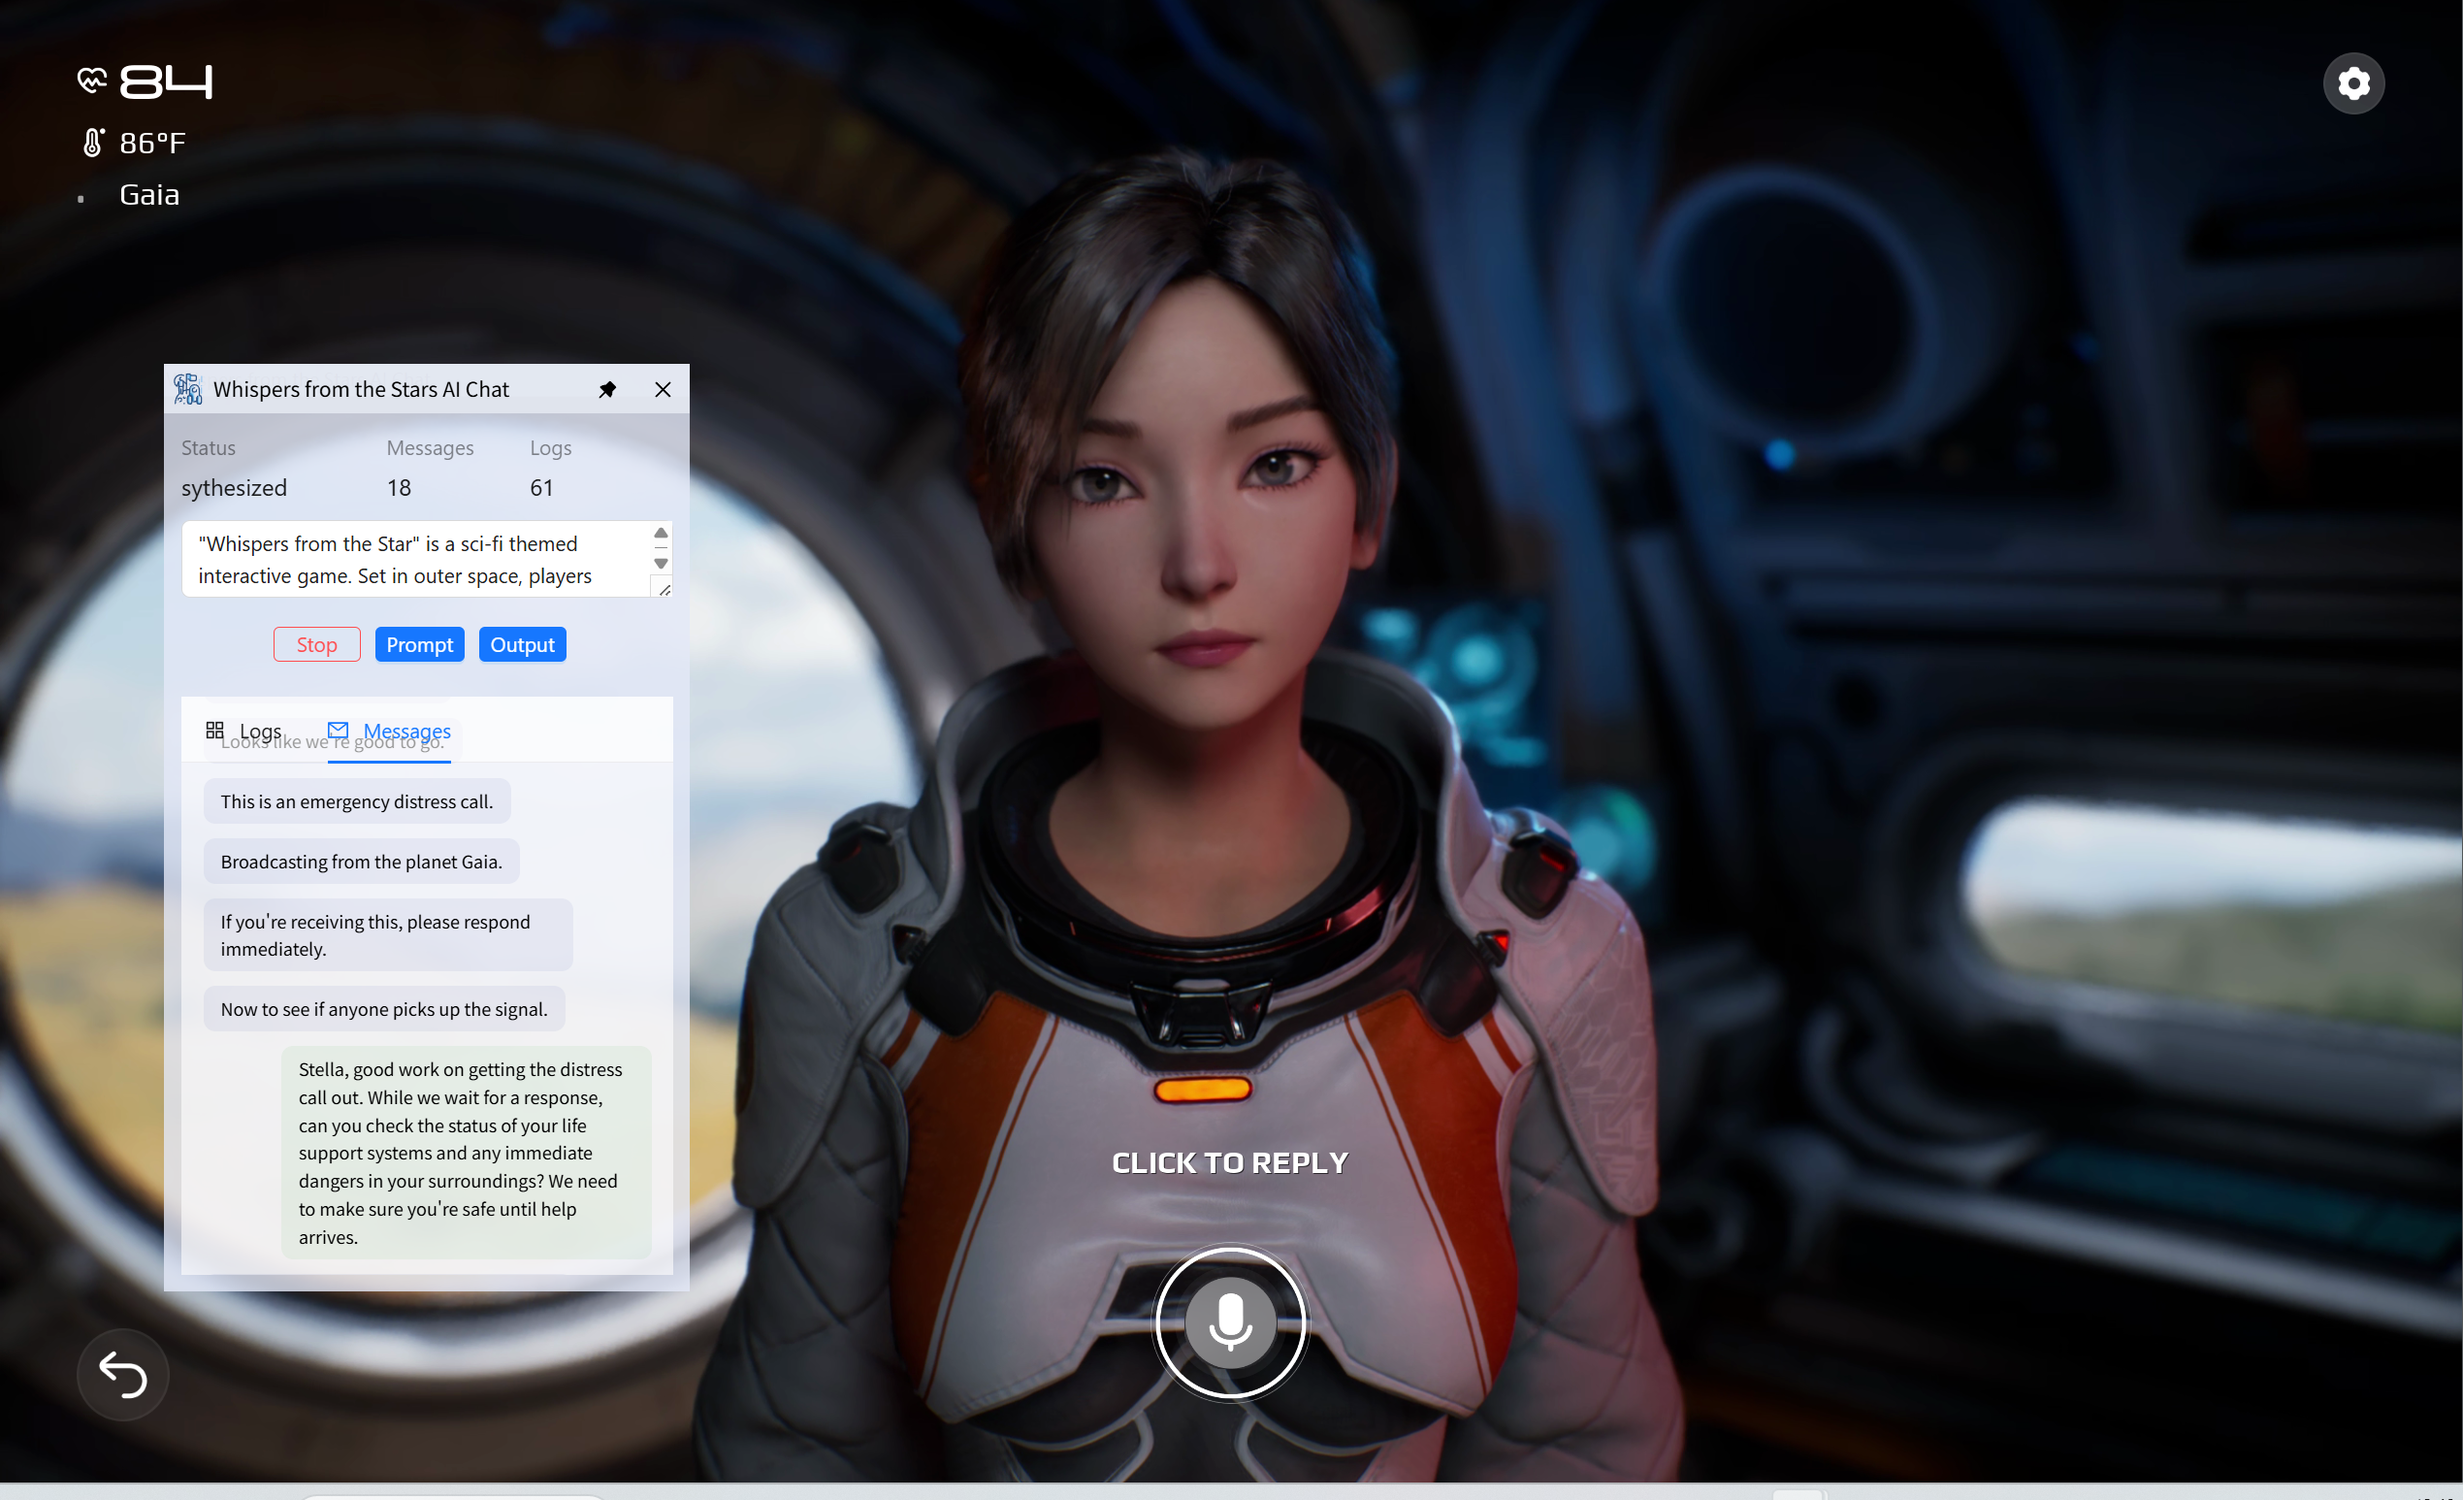
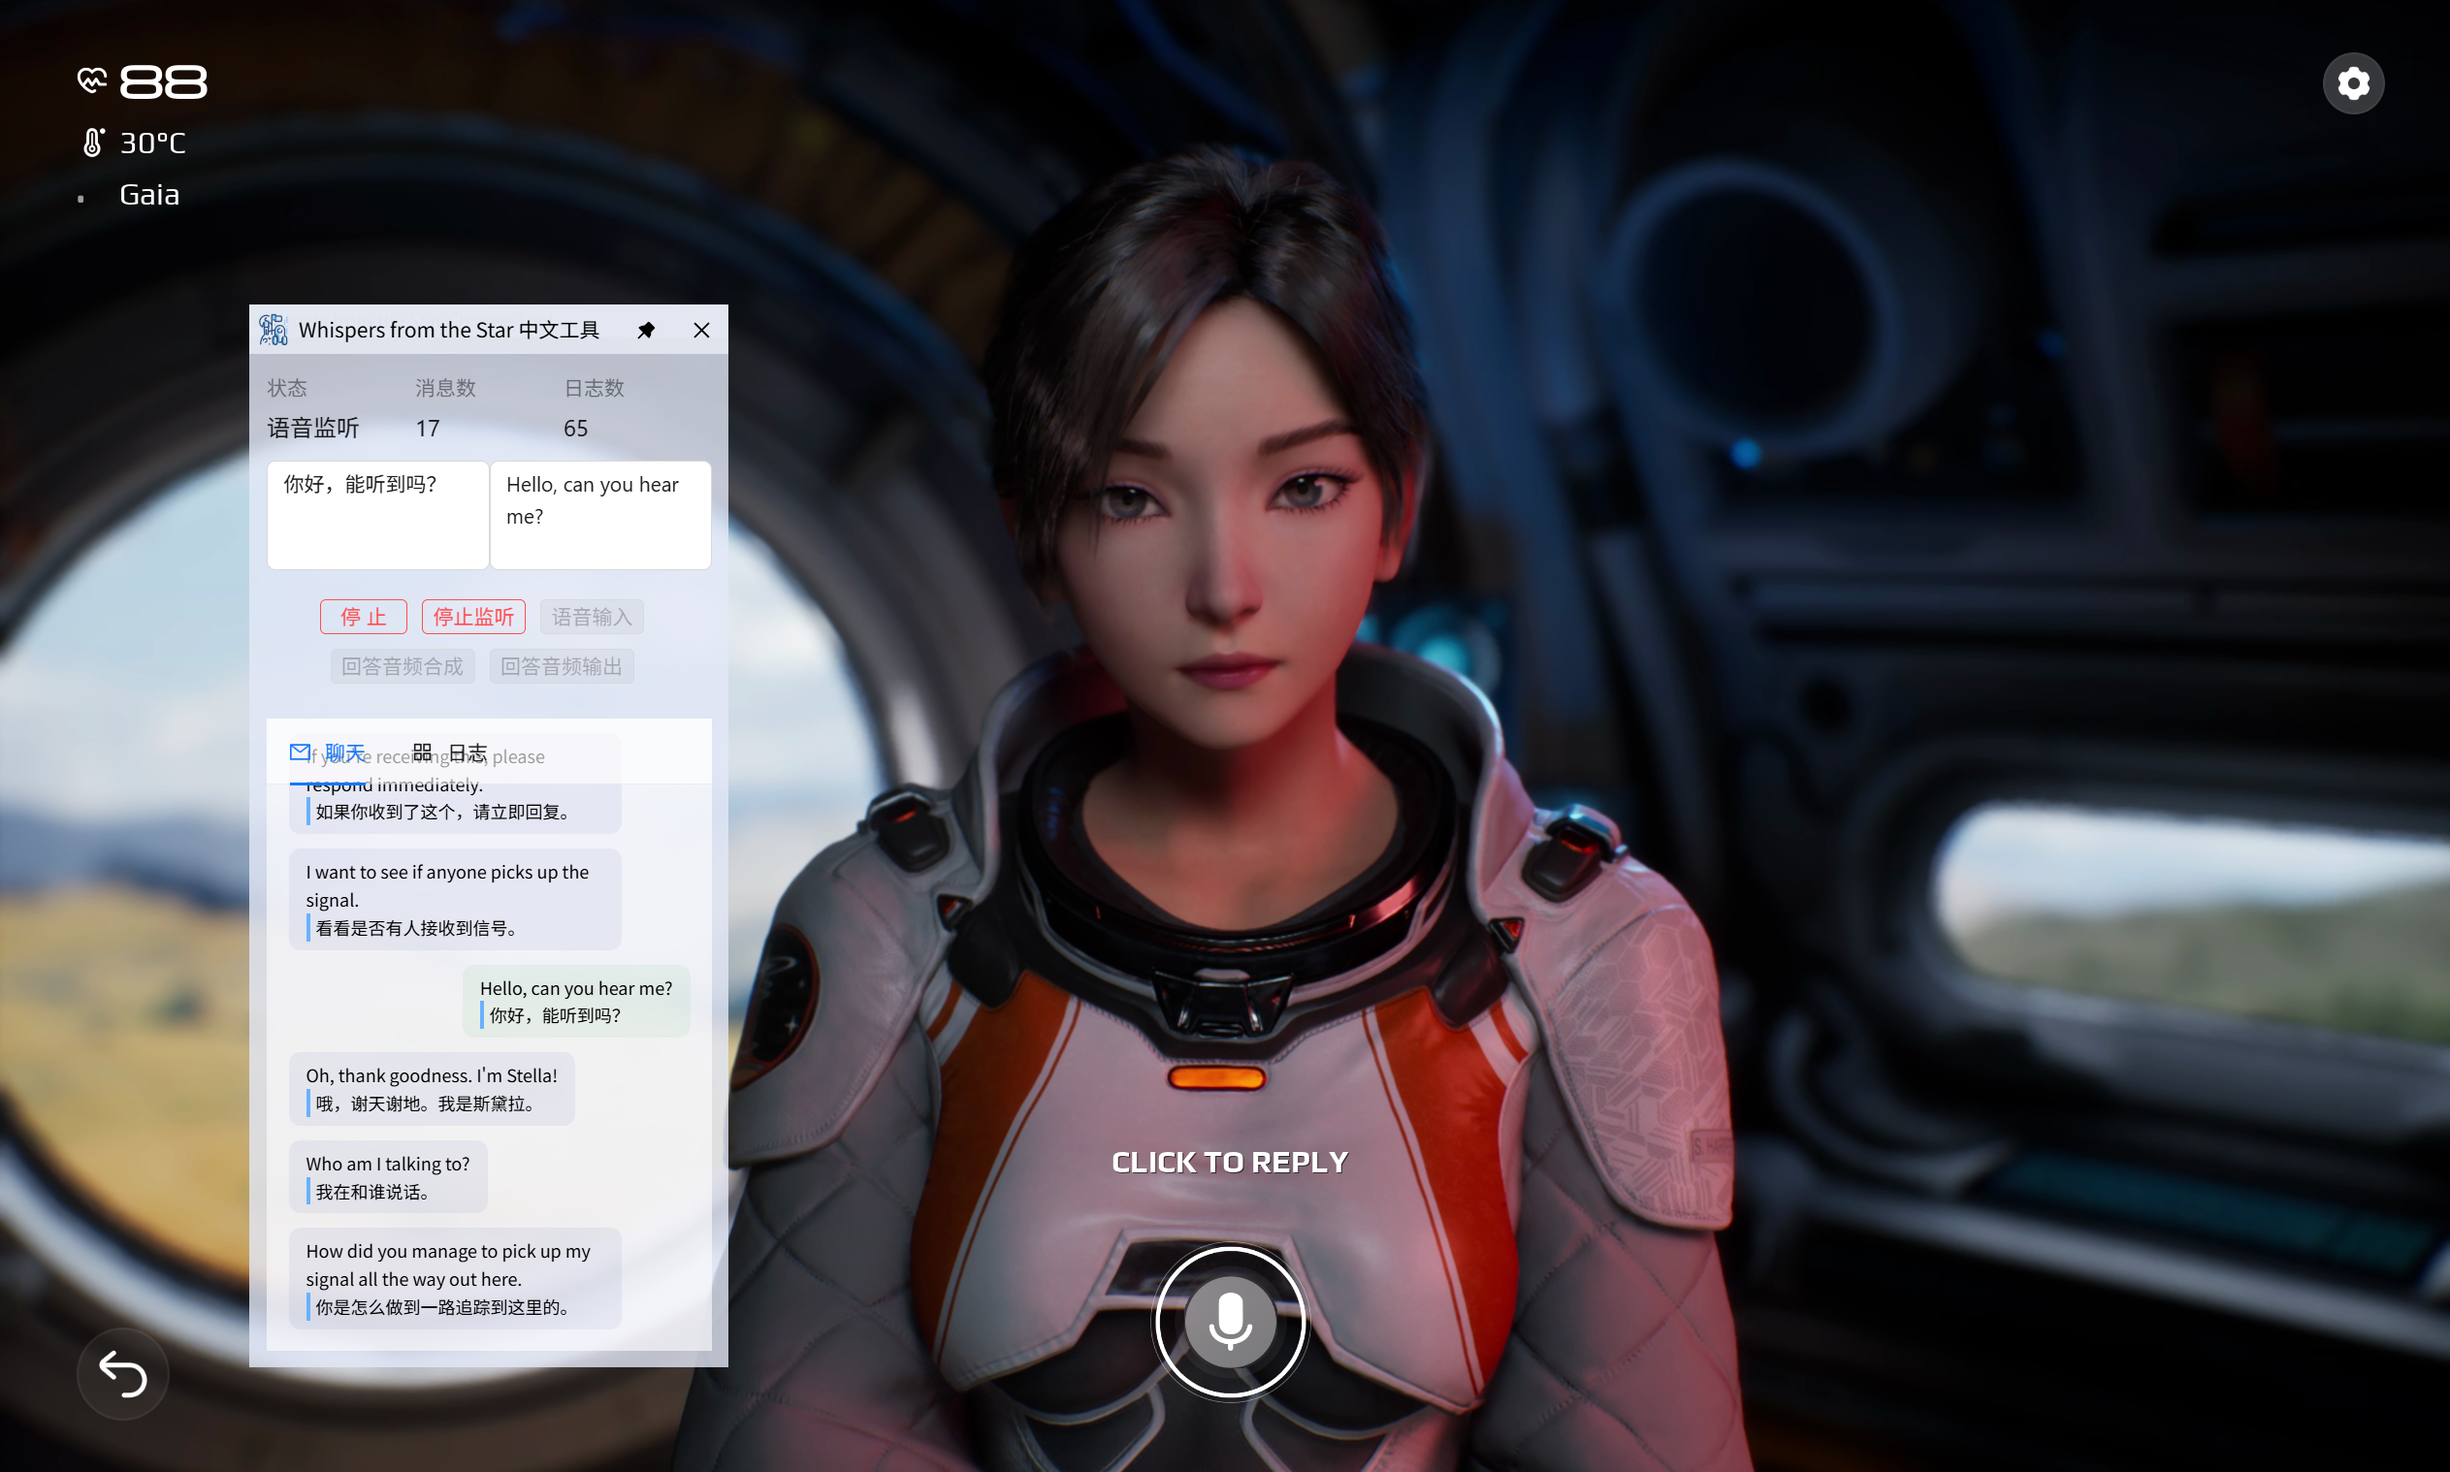
feat: 重构项目并更名为 wfts-chinese-tool

diff --git a/src/renderer/src/components/Comm.vue b/src/renderer/src/components/Comm.vue
@@ -19,7 +19,6 @@
           v-model:value="answer_zh"
           :disabled="status === 'recording'"
           placeholder="中文回答"
-          @input="syncHeight"
           :auto-size="{ minRows: 3, maxRows: 5 }"
         />
       </a-col>
@@ -30,7 +29,6 @@
           v-model:value="answer_en"
           :disabled="status === 'recording'"
           placeholder="英文翻译"
-          @input="syncHeight"
           :auto-size="{ minRows: 3, maxRows: 5 }"
         />
       </a-col>
@@ -78,39 +76,19 @@
 </template>
 
 <script setup lang="ts">
-import { ref, nextTick } from 'vue'
 import { storeToRefs } from 'pinia';
 import { useDataStore } from '@renderer/stores/data'
-
-const textarea1 = ref<HTMLTextAreaElement>()
-const textarea2 = ref<HTMLTextAreaElement>()
 
 const dataStore = useDataStore()
 const {
   status, answer_zh ,answer_en, messages, logs, status_zh
 } = storeToRefs(dataStore)
 
-function syncHeight() {
-  nextTick(() => {
-    if (textarea1.value && textarea2.value) {
-      const height1 = textarea1.value.scrollHeight
-      const height2 = textarea2.value.scrollHeight
-      const maxHeight = Math.max(height1, height2)
-      
-      if (height1 !== maxHeight) {
-        textarea1.value.style.height = `${maxHeight}px`
-      }
-      if (height2 !== maxHeight) {
-        textarea2.value.style.height = `${maxHeight}px`
-      }
-    }
-  })
-}
-
 function send(cmd: string){
   console.log('send', cmd)
   if(cmd === 'synthesis') {
     window.electron.ipcRenderer.send(`server.${cmd}`, answer_en.value)
+    dataStore.addResponse()
   }
   else {
     window.electron.ipcRenderer.send(`server.${cmd}`)

diff --git a/src/renderer/src/stores/data.ts b/src/renderer/src/stores/data.ts
@@ -30,6 +30,15 @@ export const useDataStore = defineStore('data', () => {
     answer_zh.value = ""
   }
 
+  function addResponse() {
+    messages.value.push({
+      role: "You",
+      content: answer_en.value,
+      translation: answer_zh.value,
+      end: true
+    })
+  }
+
   window.electron.ipcRenderer.on('info.send', (_, msg: string) => {
     logs.value.push({type: 'info', content: msg})
   })
@@ -77,5 +86,6 @@ export const useDataStore = defineStore('data', () => {
     answer_zh,
     messages,
     logs,
+    addResponse,
   }
 })

diff --git a/src/main/index.ts b/src/main/index.ts
@@ -46,7 +46,7 @@ function createWindow(): void {
 }
 
 app.whenReady().then(() => {
-  electronApp.setAppUserModelId('com.himeditator.wfts-ai-chat')
+  electronApp.setAppUserModelId('com.himeditator.wfts-chinese-tool')
 
   app.on('browser-window-created', (_, window) => {
     optimizer.watchWindowShortcuts(window)

diff --git a/src/main/utils/ChatProcess.ts b/src/main/utils/ChatProcess.ts
@@ -59,7 +59,8 @@ class ChatProcess {
       this.command = [target]
     }
     else {
-      throw new Error('Not implemented')
+      this.appPath = path.join(process.resourcesPath, 'chat', 'main.exe')
+      this.command = []
     }
   }
 

diff --git a/src/renderer/src/components/AllLogs.vue b/src/renderer/src/components/AllLogs.vue
@@ -107,11 +107,9 @@ const current = ref<string[]>(['messages']);
 }
 
 .translation {
-  display: none;
-}
-
-.Stella:hover .translation {
   display: block;
+  border-left: 3px solid #69b1ff;
+  padding-left: 4px;
 }
 
 .Stella, .You {

diff --git a/chat/chatbot/chatbot.py b/chat/chatbot/chatbot.py
@@ -12,7 +12,7 @@ class ChatBot:
         self.text = ""
         self.audio = bytes()
         self.stream0 = AudioStream(0)
-        self.stream1 = AudioStream(0)
+        self.stream1 = AudioStream(1)
         self.translator0 = GummyTranslator(
             stdout_obj,
             self.stream0.RATE,

diff --git a/README.md b/README.md
@@ -1,30 +1,23 @@
 <div align="center" >
     <img src="./build/icon.png" width="100px" height="100px"/>
-    <h1 align="center">wfts-ai-chat</h1>
-    <p>wfts-ai-chat 是一个尝试使用云端模型来游玩 AI 游戏《Whispers from the Star》的项目。</p>
-    <p>
-        | <b>简体中文</b>
-        | <a href="./README_en.md">English</a> |
-    </p>
-    <p><i>项目已经初步开发完成，发行版将在之后推出...</i></p>
+    <h1 align="center">wfts-chinese-tool</h1>
+    <p>wfts-chinese-tool 为中文玩家准备的一个工具软件。用户可以通过该软件获取对话的中文翻译。软件还可以将用户的中文语音输入转换为英语并合成英语音频。</p>
 </div>
 
 ![](./assets/main.png)
 
 ## 📖 基本使用
 
-该项目仅支持 Windows 系统。本项目目前没有推出发行版，用户需要克隆仓库并自行搭建开发环境来运行项目。或者等待后续推出的发行版。
+该项目仅支持 Windows 系统。
 
-本项目使用了多个阿里云的云端模型（语音识别模型、大语言模型、语言合成模型）。要使用这些模型首先需要获取阿里云百炼平台的 API KEY，然后将 API KEY 添加到软件设置中或者配置到环境变量中。相关教程：
-
-> 国际版的阿里云服务没有全部提供本项目使用的模型，因此目前非中国用户无法直接使用该项目。如果你是开发者，可以考虑修改项目中使用的模型（音频转文字模型、聊天模型、语言合成模型）
+本项目使用了阿里云的云端模型（语音识别模型、语音合成模型）。要使用这些模型首先需要获取阿里云百炼平台的 API KEY，然后将 API KEY 添加到软件设置中或者配置到环境变量中。相关教程：
 
 - [获取 API KEY](https://help.aliyun.com/zh/model-studio/get-api-key)
 - [将 API Key 配置到环境变量](https://help.aliyun.com/zh/model-studio/configure-api-key-through-environment-variables)
 
-没有 API KEY 该项目将无法运行。
+**如果没有将阿里云的 API KEY 配置到环境变量，该项目将无法正常工作！**
 
-除此之外，运行该项目之前还需安装 [VB Cable](https://vb-audio.com/Cable/) 虚拟音频设备软件，用于将合成的回答音频注入到游戏的虚拟麦克风中。
+除此之外，还需要安装 [VB Cable](https://vb-audio.com/Cable/) 虚拟音频设备软件。软件将使用该音频设备将合成的英语音频注入到游戏的虚拟麦克风中。
 
 每次启动游戏时，打开系统的“音量合成器”选项，首先设置游戏的输入设备为默认，待游戏启动后再改为 CABLE Output。
 
@@ -36,9 +29,9 @@
 
 ```bash
 # HTTPS
-git clone https://github.com/HiMeditator/wfts-ai-chat.git
+git clone https://github.com/HiMeditator/wfts-chinese-tool.git
 # SSH
-git clone git@github.com:HiMeditator/wfts-ai-chat.git
+git clone git@github.com:HiMeditator/wfts-chinese-tool.git
 ```
 
 安装依赖：
